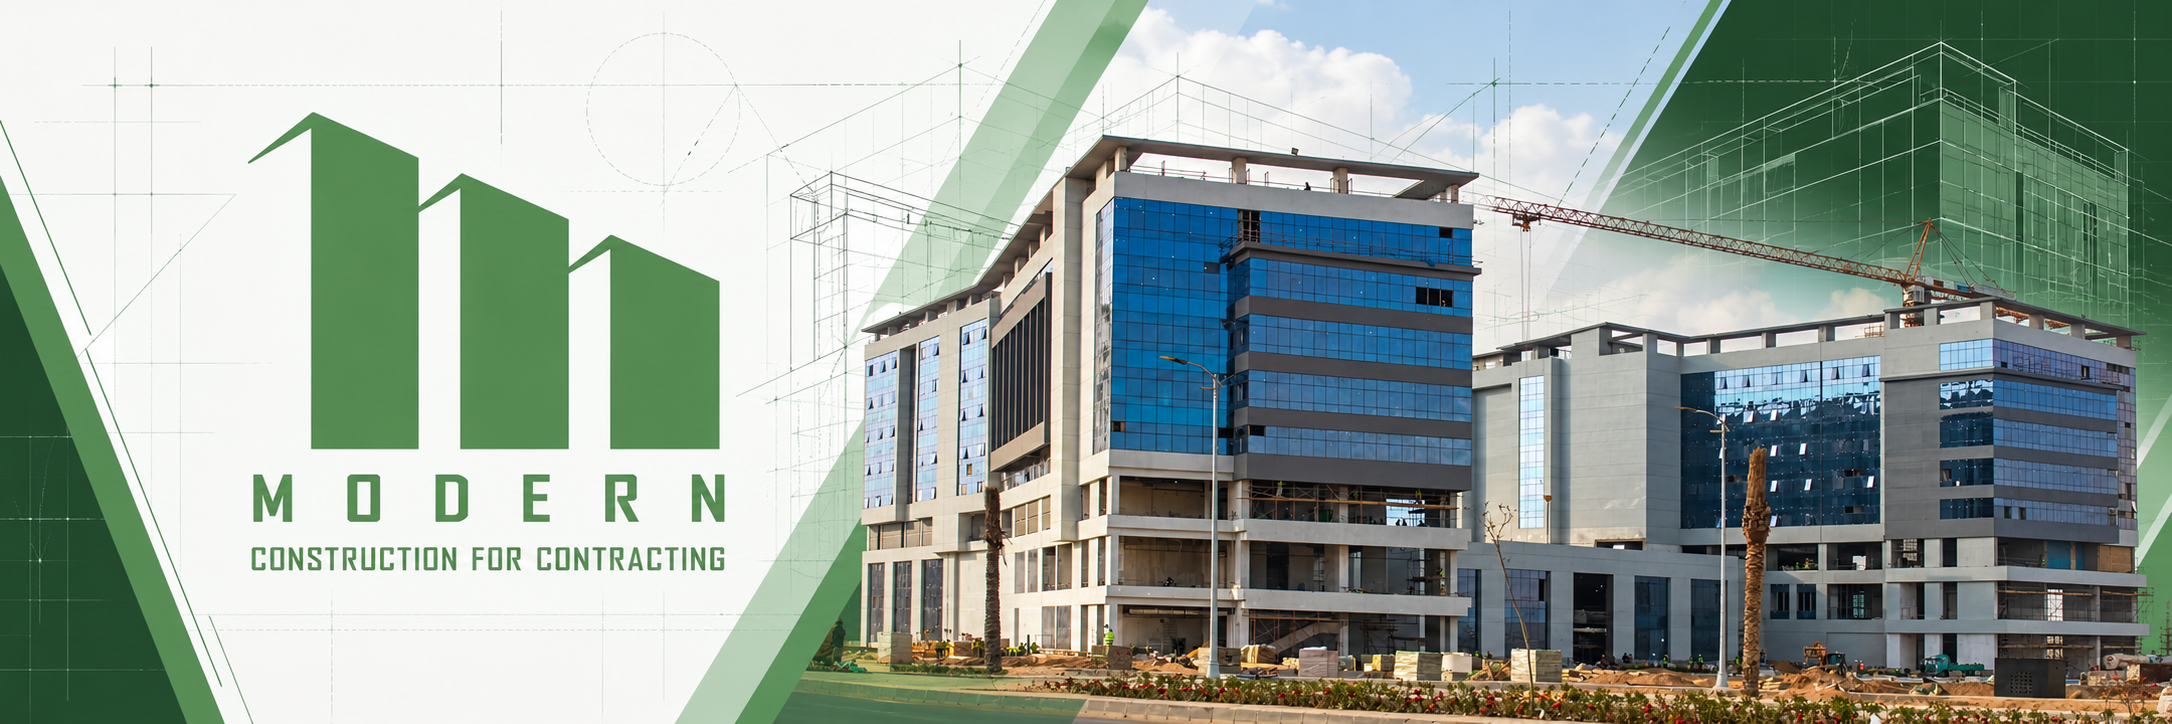
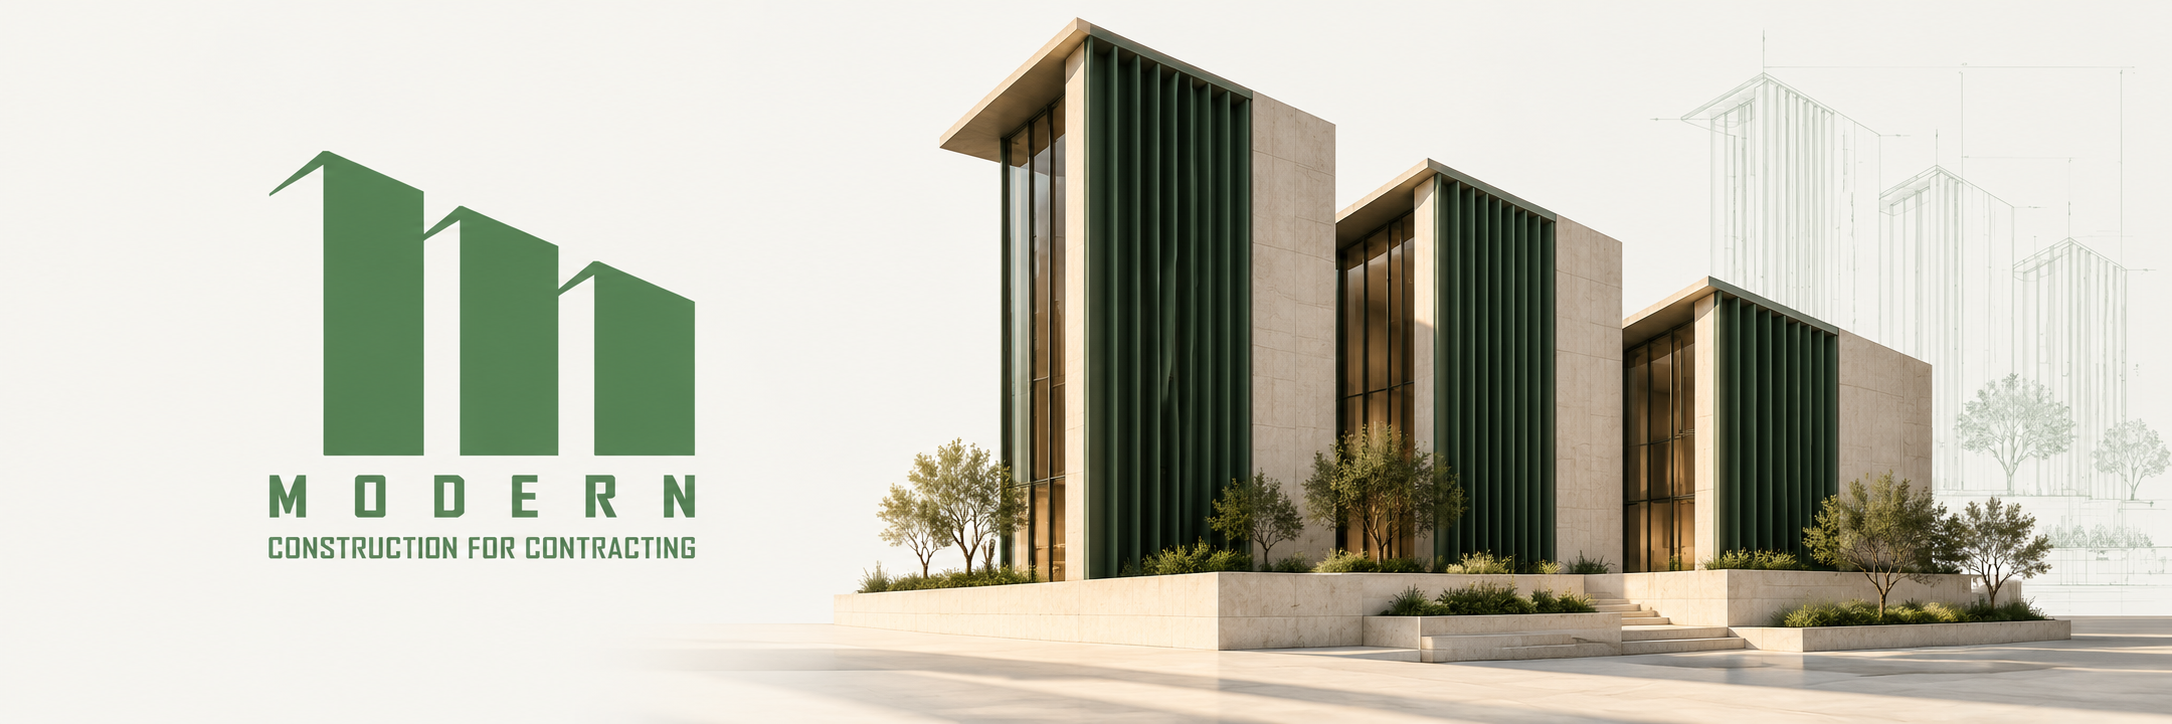
Update Modern portfolio showcase

diff --git a/README.md b/README.md
@@ -1,4 +1,4 @@
-![Modern Construction for Contracting, with its green logo and architectural cover artwork](docs/readme/cover.webp)
+<a href="docs/readme/cover.webp"><img src="docs/readme/cover.gif" width="100%" alt="Modern Construction for Contracting — green brand mark beside three descending architectural forms"></a>
 
 # Modern — Construction for Contracting
 
